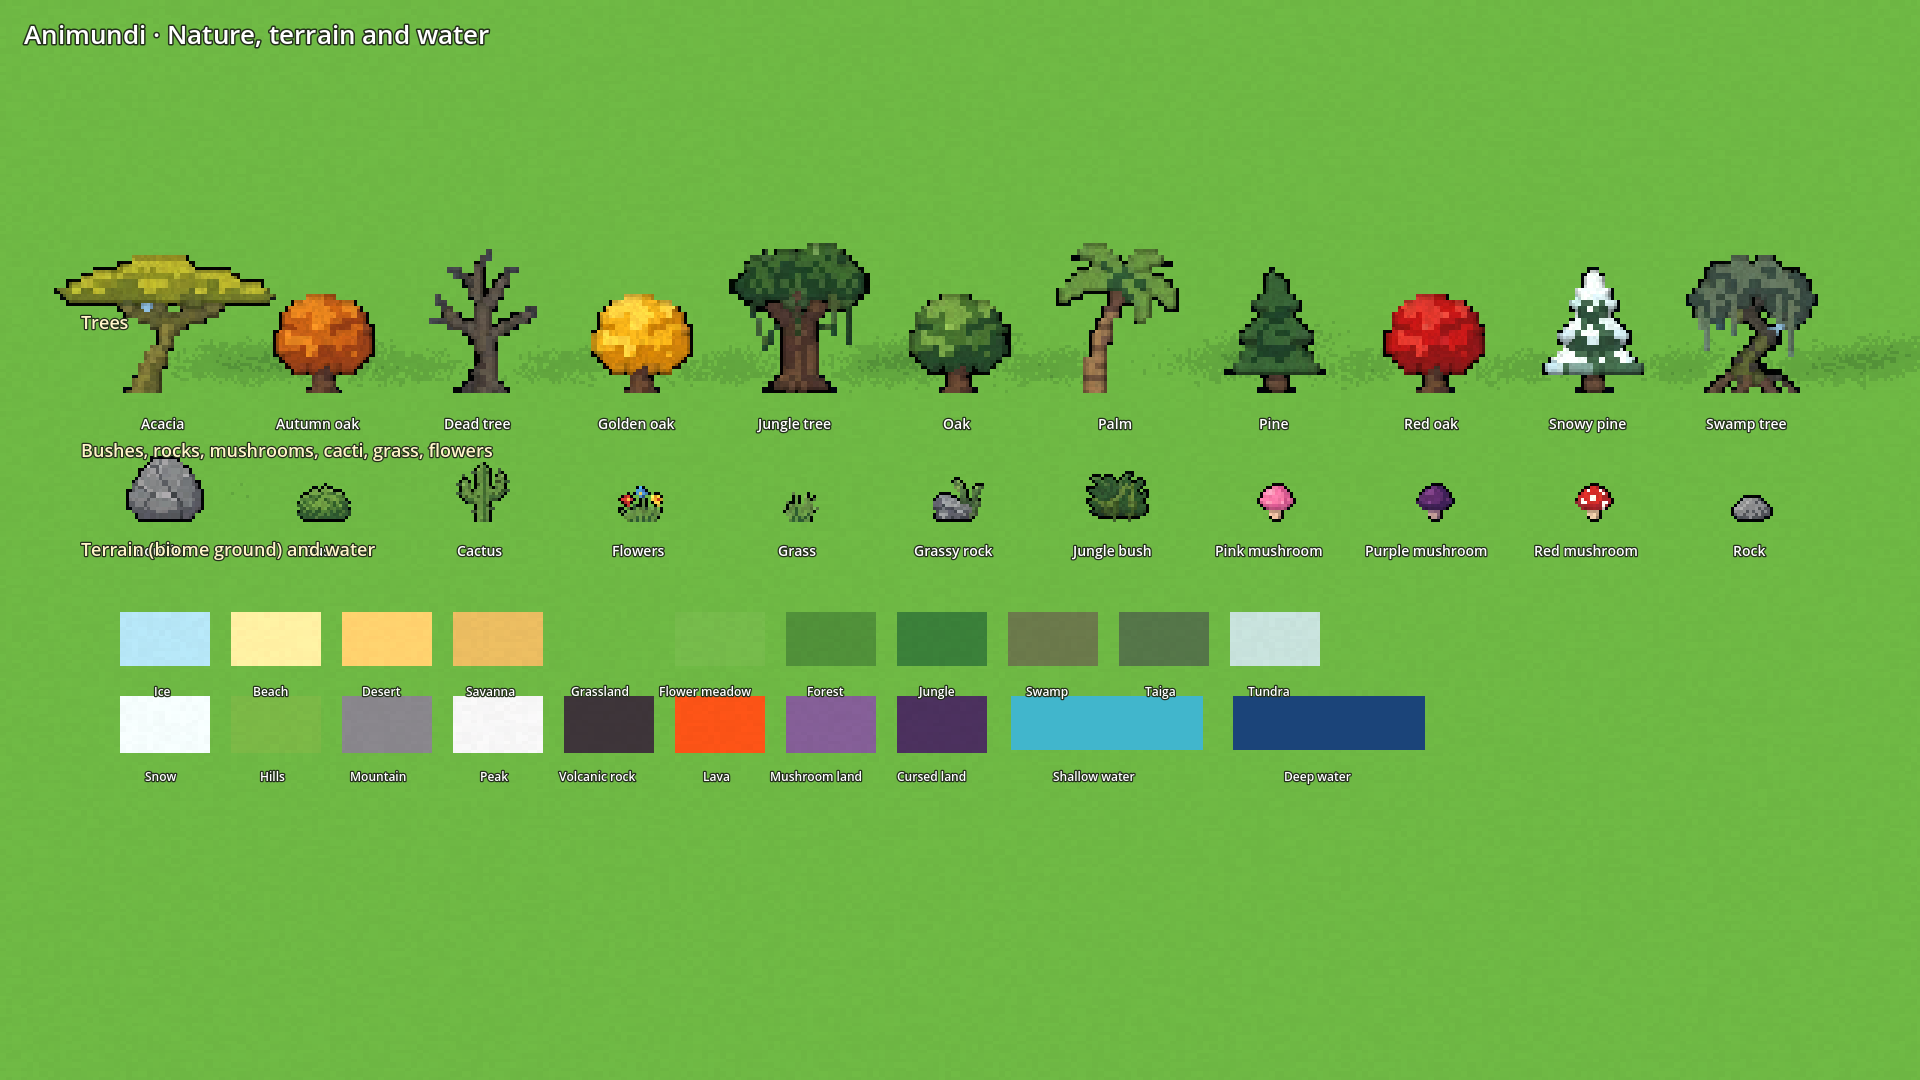
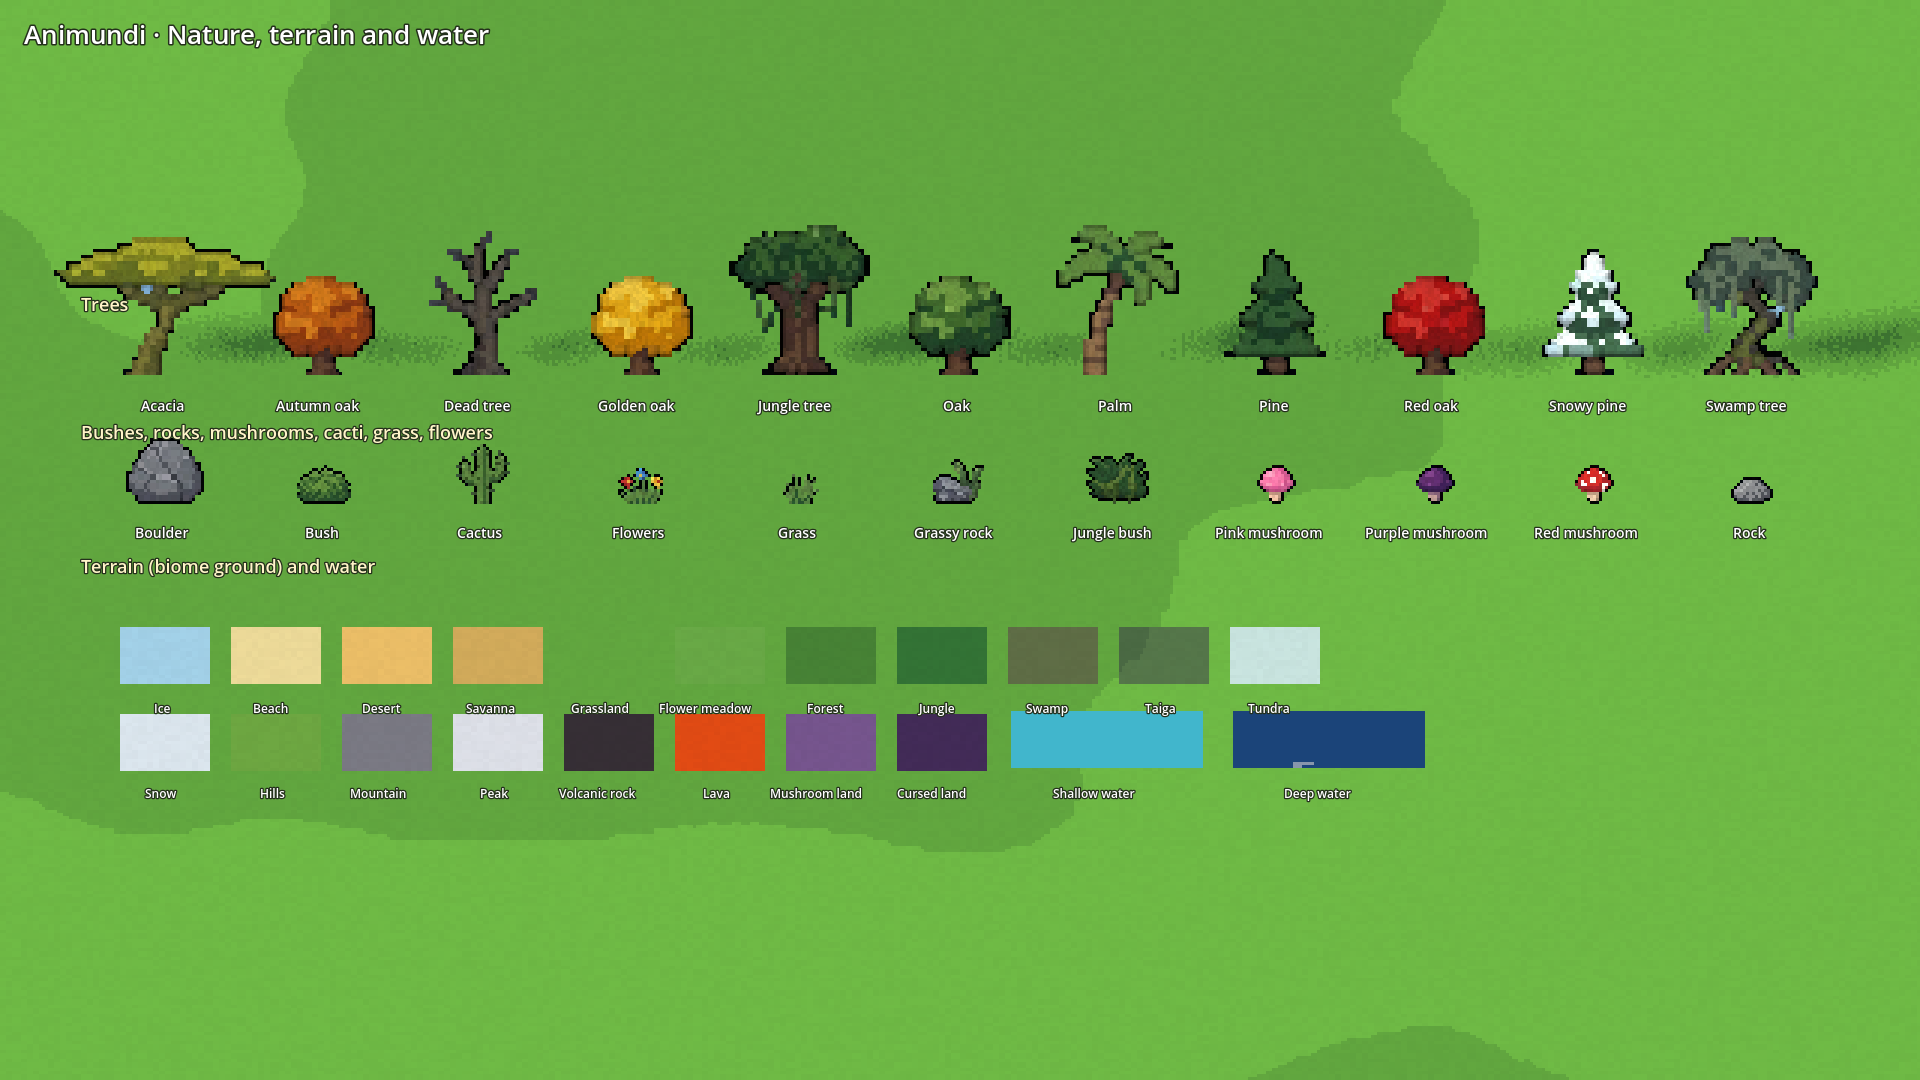
Apply t3ssel8r-style techniques from Robert-K/godot-3d-pixel-art
Adapted from Robert-K/godot-3d-pixel-art (MIT, credited in
shaders/vendor/README.md with its license):
- stepped cel lighting shared by ground, sprites and grass;
- cloud shadows found by following the sun ray up to a cloud layer;
- sprites and grass lit as a single point at their base
  (LIGHT_VERTEX, moved slightly towards the sun);
- dense billboard grass from a 3x3 tuft atlas, coloured like the
  ground, swaying at a low frame rate in groups;
- texel-snapped camera through h/v offsets, with the display shifted
  by the sub-pixel error for smooth panning.

Godray planes were tried and removed (they veiled the world map). The
old toon include and sparse grass sprites are replaced; shadows are a
little lighter and light levels re-measured.

Claude-Session: https://claude.ai/code/session_01GoyuuhY9JrMPE9JVSkrvu8

diff --git a/docs/ART_DIRECTION.md b/docs/ART_DIRECTION.md
@@ -22,15 +22,20 @@ Known limit noted by the author: a perfect outline shader for every model and ca
 
 ## Shaders in the game
 
-The game renders with Godot's **Forward+** renderer (needed for the normal buffer of the stylizer).
+The game renders with Godot's **Forward+** renderer. Its shaders follow the techniques of the t3ssel8r / David Holland style, taken from open-source Godot implementations (credits and licenses in `shaders/vendor/README.md`):
 
-| Effect | Where |
-|---|---|
-| Pixel-art outlines (depth edges) and highlights (normal edges), toggle with E | `shaders/vendor/pixelart_stylizer.gdshader`, by Leo Peltola (MIT), unmodified |
-| Banded toon light with dithered edges, shared by ground, sprites and water | `shaders/toon.gdshaderinc` |
-| Sprites lit like the ground, darkened in tree shadows | `shaders/sprite.gdshader` |
-| Tile-top patterns, cliff strata, glowing lava | `shaders/terrain.gdshader` |
-| Water depth colours, mirrored-camera reflections with pixel ripple, glints, shore foam | `shaders/water.gdshader` |
+| Technique | Where | From |
+|---|---|---|
+| Pixel-art outlines (depth edges) and highlights (normal edges), toggle with E | `shaders/vendor/pixelart_stylizer.gdshader` | Leo Peltola (MIT), unmodified |
+| Stepped cel lighting shared by ground, sprites and grass | `shaders/cel.gdshaderinc` | Robert-K/godot-3d-pixel-art (MIT) |
+| Cloud shadows: the sun ray is followed up to a cloud layer that reads a scrolling noise texture | `shaders/cel.gdshaderinc` | Robert-K/godot-3d-pixel-art (MIT) |
+| Sprites and grass lit as one point at their base (`LIGHT_VERTEX`), so each is wholly in sun or shade | `shaders/sprite.gdshader`, `shaders/grass.gdshader` | Robert-K/godot-3d-pixel-art (MIT) |
+| Dense billboard grass: 3×3 tuft atlas, ground colour, wind animated at a low frame rate in groups | `shaders/grass.gdshader`, `assets/vendor/grass_atlas.png` | Robert-K/godot-3d-pixel-art (MIT) |
+| Texel-snapped camera with sub-pixel display offset (smooth panning, no shimmering) | `scripts/ui/pixel_camera.gd`, `scripts/main.gd` | Robert-K/godot-3d-pixel-art (MIT) |
+| Water: depth colours, mirrored-camera reflections with pixel ripple, glints, shore foam | `shaders/water.gdshader` | after David Holland's article |
+| Tile-top patterns, cliff strata, glowing lava | `shaders/terrain.gdshader` | Animundi |
+
+Tried and dropped: volumetric godray planes (they washed a beige veil over large parts of a world-sized map; the technique suits close-up scenes).
 
 ## Sprites in the 3D world
 
